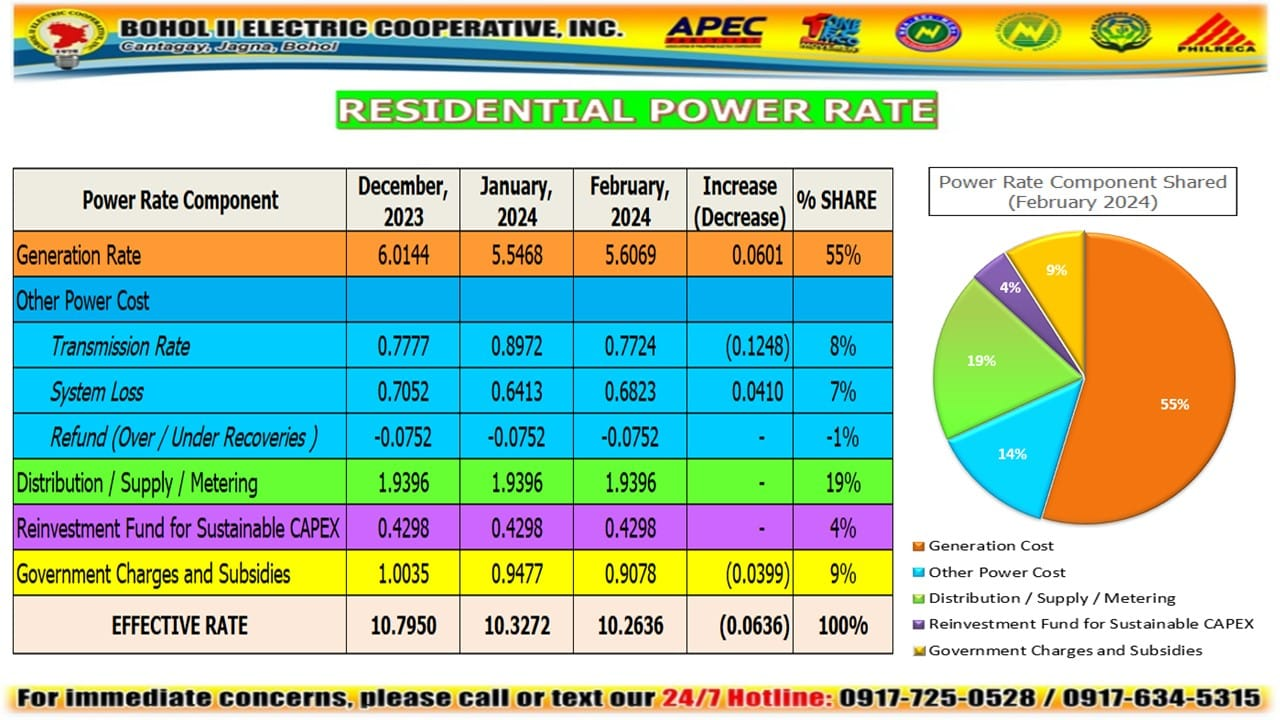
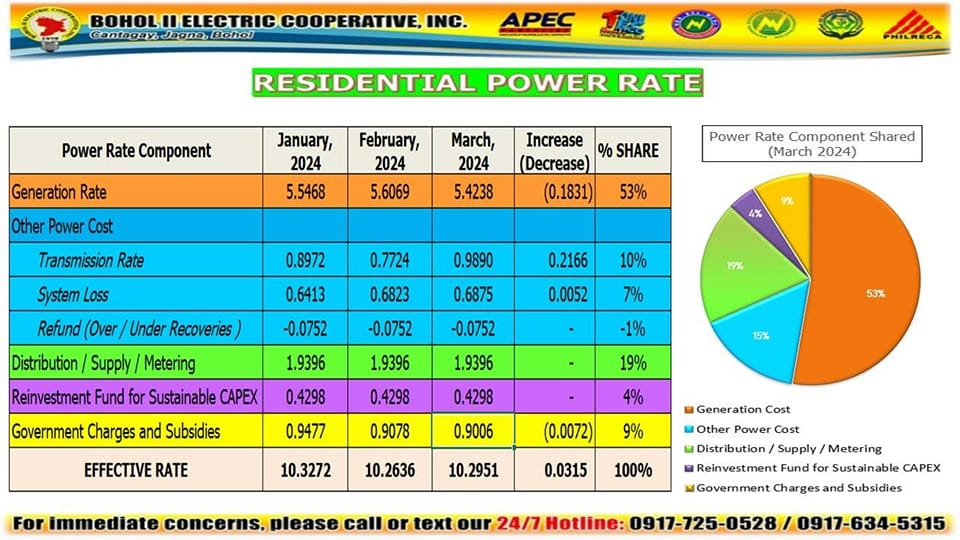
march 2024 rates update

diff --git a/src/components/GenRates.jsx b/src/components/GenRates.jsx
@@ -6,7 +6,7 @@ const img = [
   "assets/rates/gr2.png",
 ];
 
-const months = ["February", "January", "December"];
+const months = ["March", "February", "January"];
 
 const Rates = () => {
   return (
